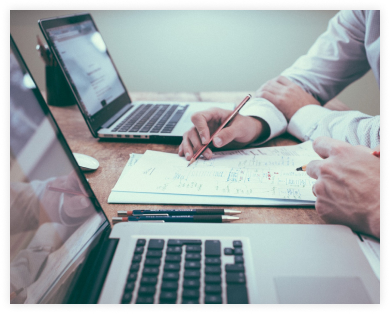
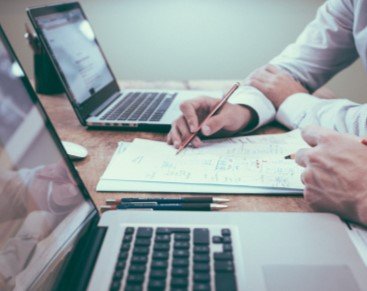
round images

diff --git a/index.html b/index.html
@@ -119,7 +119,7 @@
           <h2 class="section-title">Роботи на яких спеціалізуємось</h2>
           <ul class="list">
             <li class="thumb">
-              <img
+              <img class="rounded"
                 src="images/code.jpg"
                 width="370"
                 height="294"
@@ -127,7 +127,7 @@
               />
             </li>
             <li class="thumb">
-              <img
+              <img class="rounded"
                 src="images/team.jpg"
                 width="370"
                 height="294"
@@ -135,7 +135,7 @@
               />
             </li>
             <li class="thumb">
-              <img
+              <img class="rounded"
                 src="images/laptops.jpg"
                 width="370"
                 height="294"

diff --git a/css/styles.css b/css/styles.css
@@ -48,6 +48,10 @@ img {
   height: auto;
 }
 
+.rounded {
+  border-radius: 10px;
+}
+
 address {
   font-style: normal;
 }
